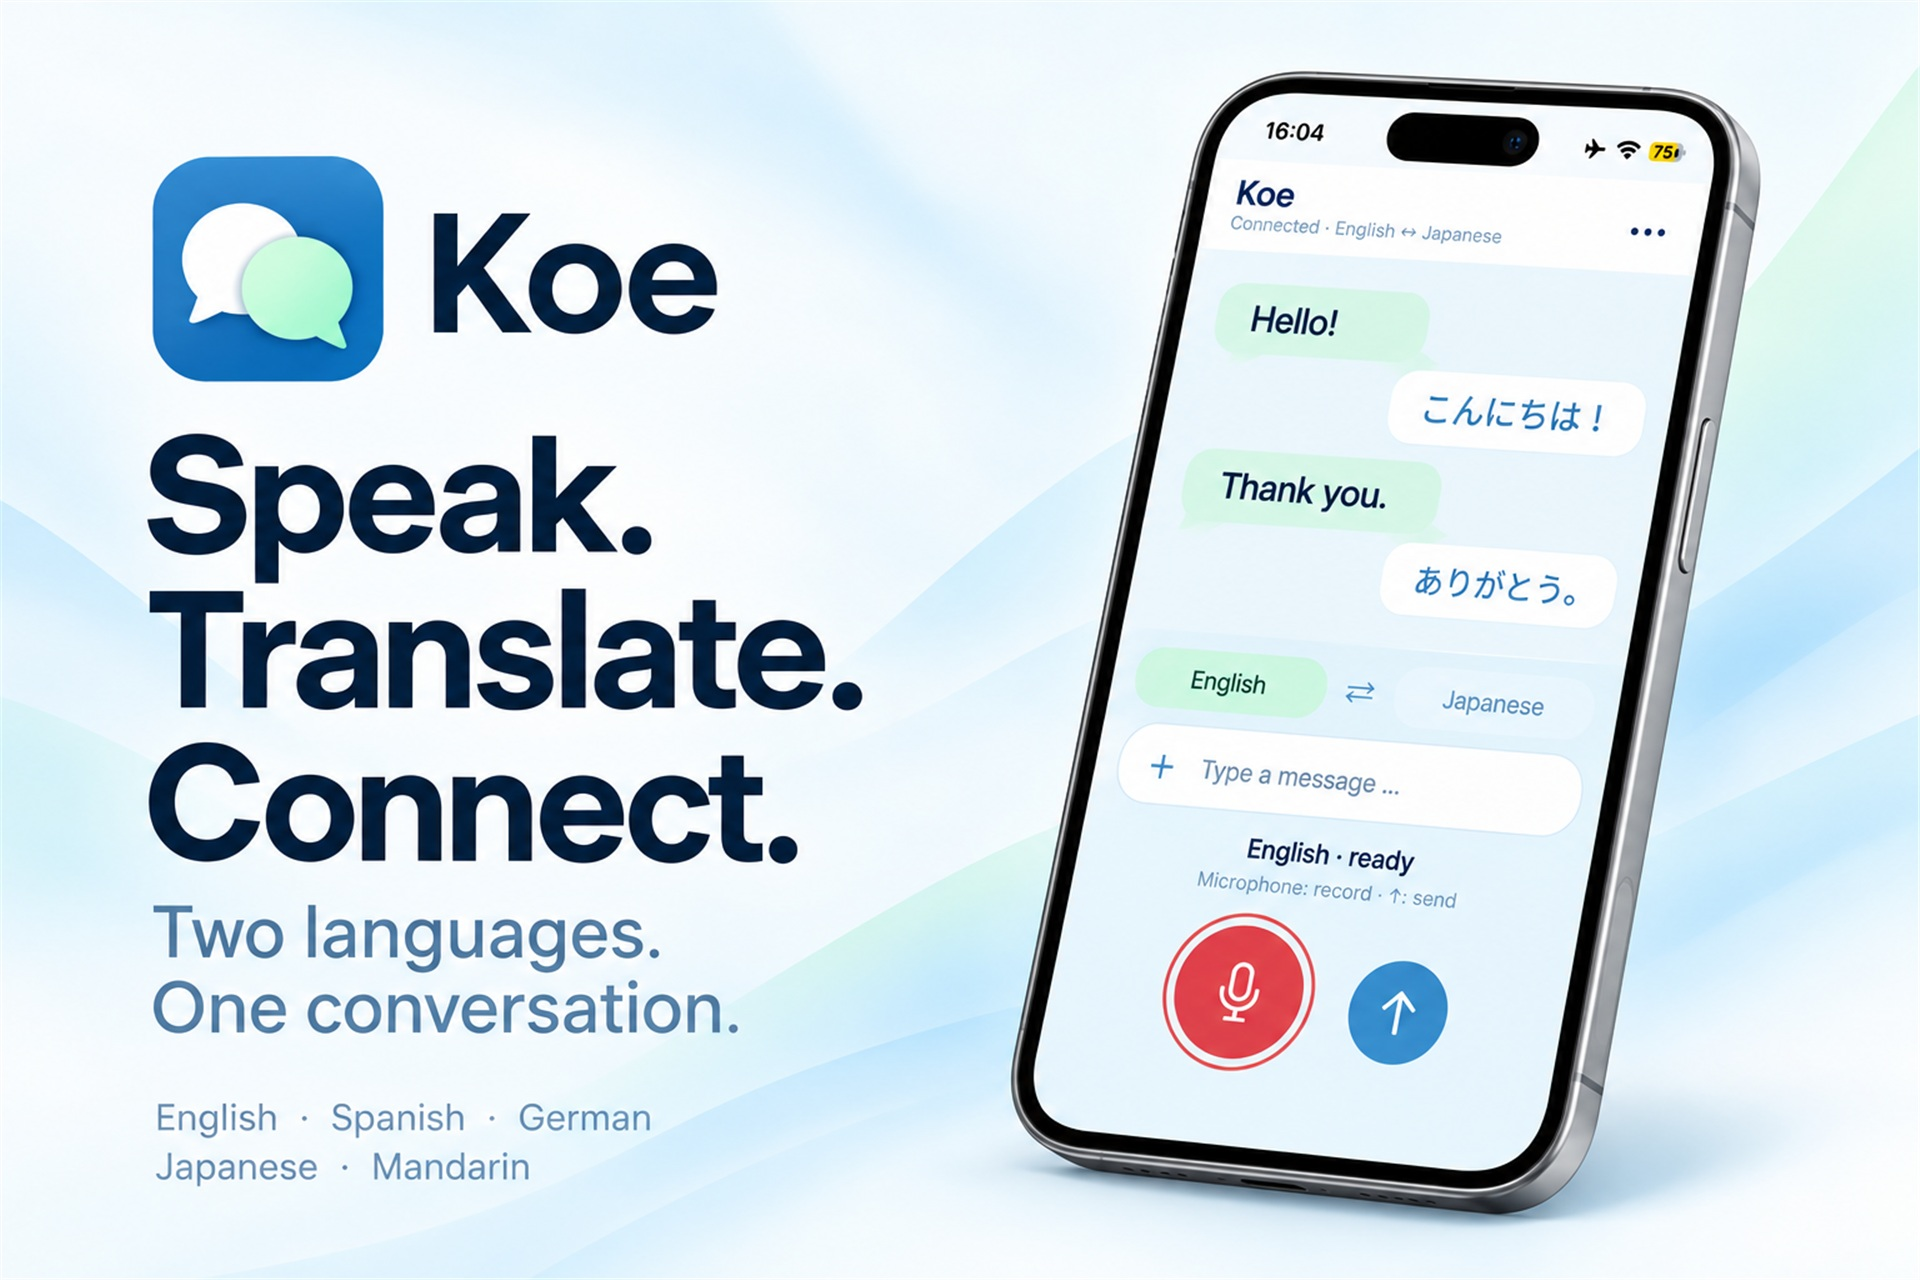
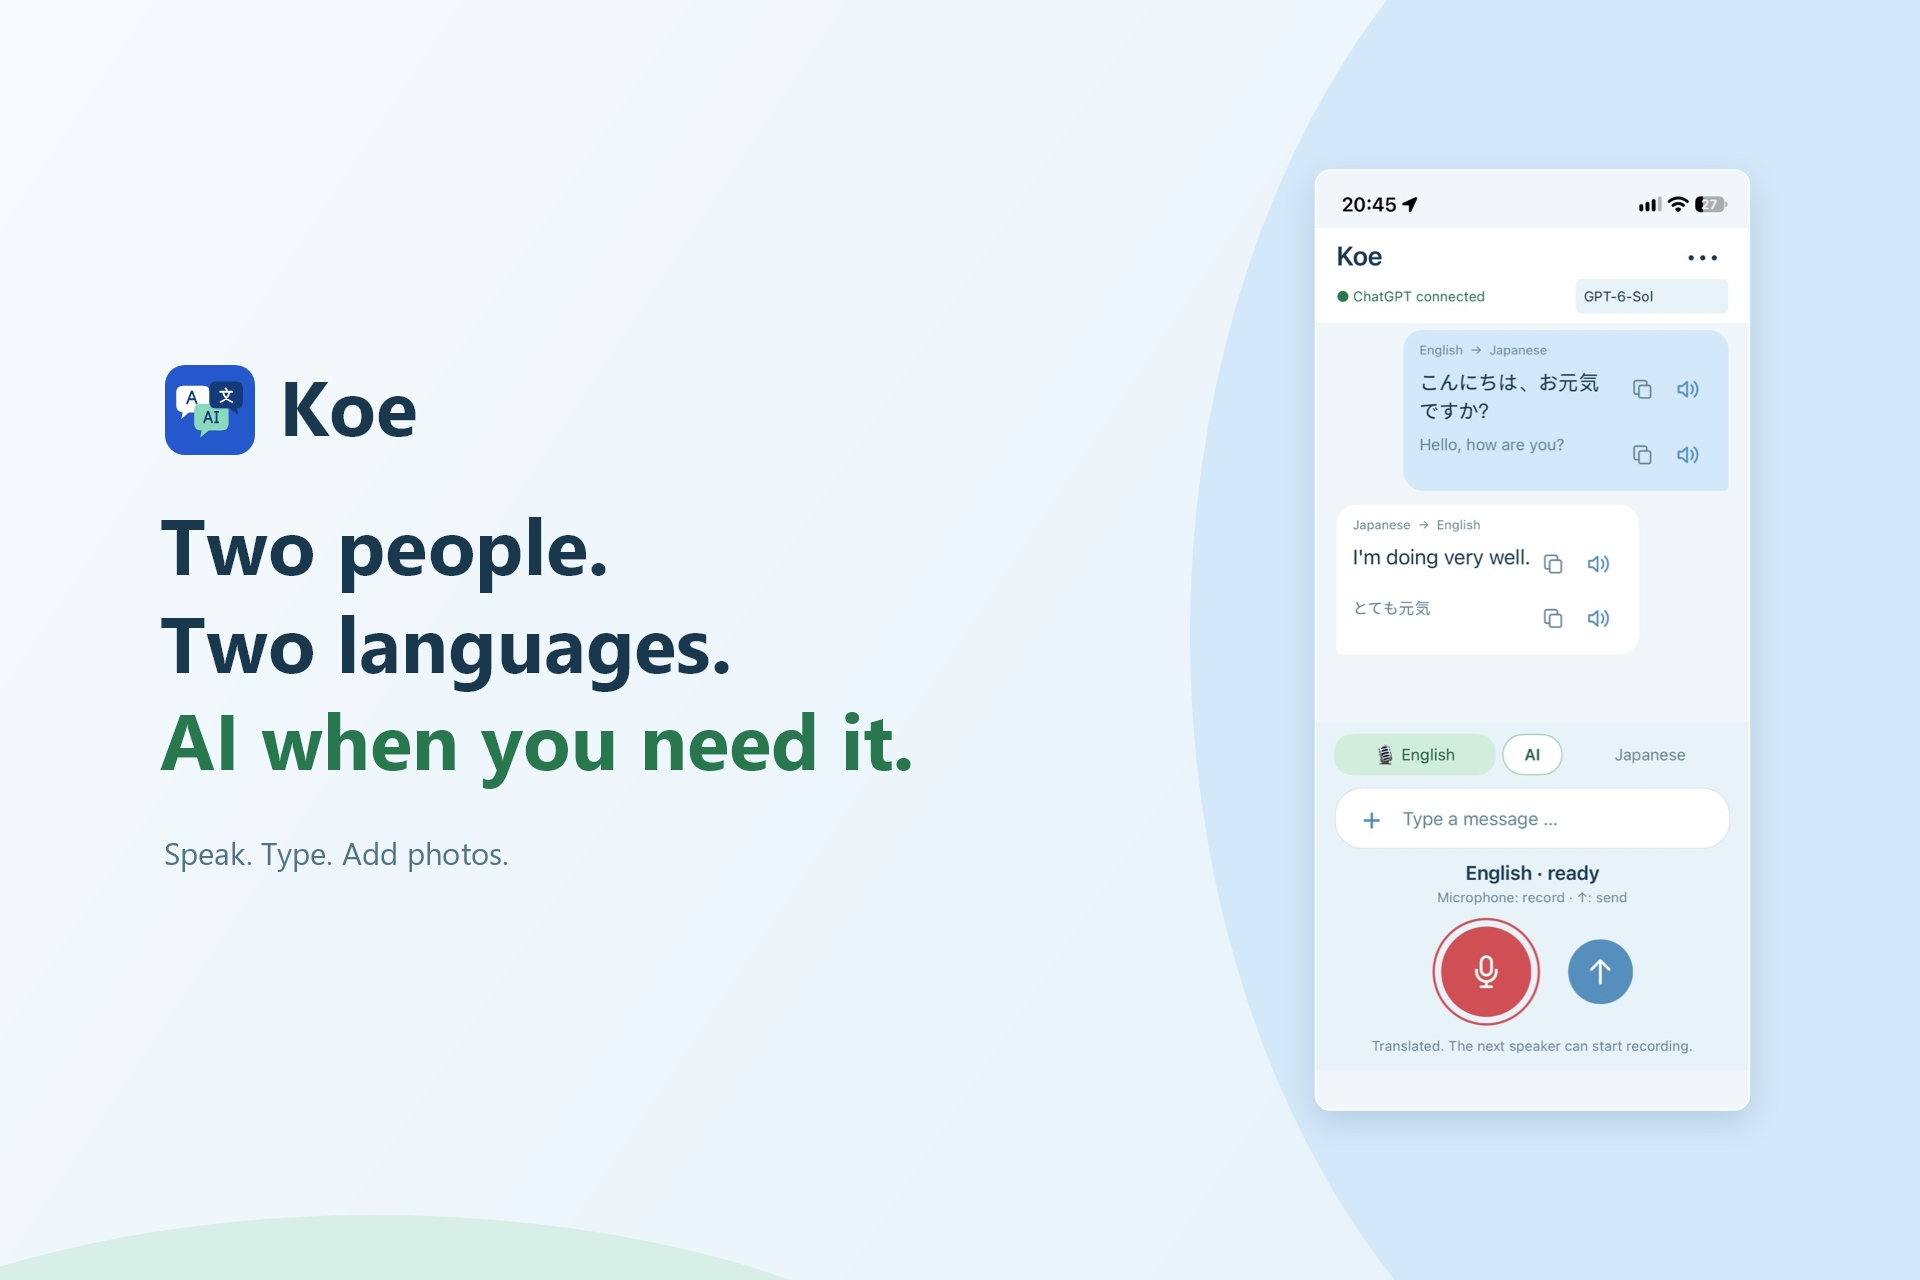
Refresh App Store artwork with current conversation capture and AI branding

diff --git a/store-assets/README.md b/store-assets/README.md
@@ -1,0 +1,37 @@
+# Current App Store images
+
+Updated 2026-11-03 with the current three-bubble app icon and the user's real
+English/Japanese conversation screenshot, showing the AI selector, model picker,
+copy controls, speech playback and separate microphone/send buttons.
+
+| File | Pixel size | App Store Connect placement |
+| --- | --- | --- |
+| `Koe-Header-3840x1646.png` | 3840 × 1646 | Product page header / Kopfzeile |
+| `Koe-Search-1920x1280.png` | 1920 × 1280 | Search results / Suchergebnisse |
+| `Koe-Universal-EN-5244x2950.png` | 5244 × 2950 | Alternative image accepted for either creative placement |
+| `Koe-AppStore-1179x2556.png` | 1179 × 2556 | App screenshots: iPhone with Dynamic Island, medium display |
+| `Koe-Icon-1024.png` | 1024 × 1024 | Export of the current app icon |
+
+The header, search and portrait screenshot also have JPEG copies. PNG is
+recommended to avoid format conversion when downloading/uploading on iPhone.
+All exported PNGs use opaque RGB (PNG color type 2), without an alpha channel.
+
+The portrait screenshot preserves the supplied image's complete UI, text,
+aspect ratio and status bar. The supplied attachment is a compressed 591 × 1280
+JPEG; the larger export resamples that image and does not add native detail.
+Replace it with an original-resolution PNG capture when available for sharper
+results. The marketing artwork embeds that same real capture; it does not
+invent a new app screen or an iPhone hardware frame.
+
+The `Koe-Universal-DE-5244x2950.png` file is an older German creative asset,
+retained for reference. Use the current English files above for this submission.
+
+These images must be uploaded to the relevant App Store Connect fields manually.
+Updating files in GitHub does not replace assets already uploaded to Apple.
+The app icon installed on iPhone comes from the app build's asset catalog.
+
+Apple specifications checked on 2026-11-03:
+
+- https://developer.apple.com/help/app-store-connect/reference/app-information/creative-assets-specifications
+- https://developer.apple.com/help/app-store-connect/reference/app-information/screenshot-specifications
+- https://developer.apple.com/app-store/asset-best-practices/
